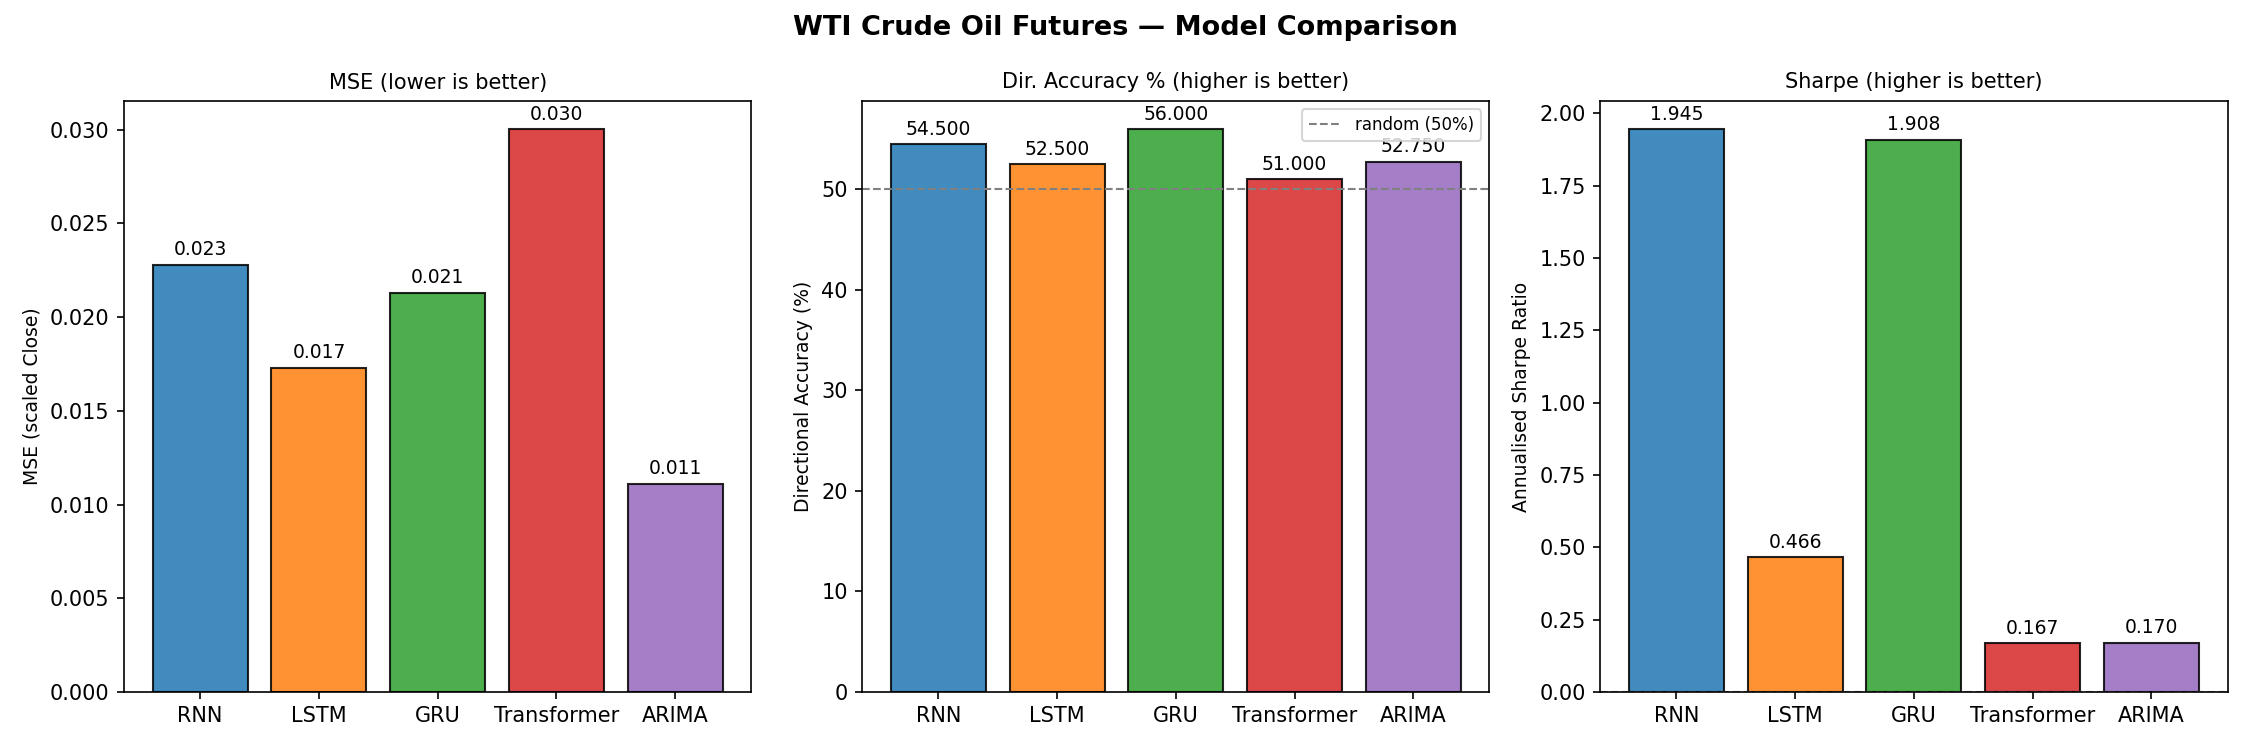
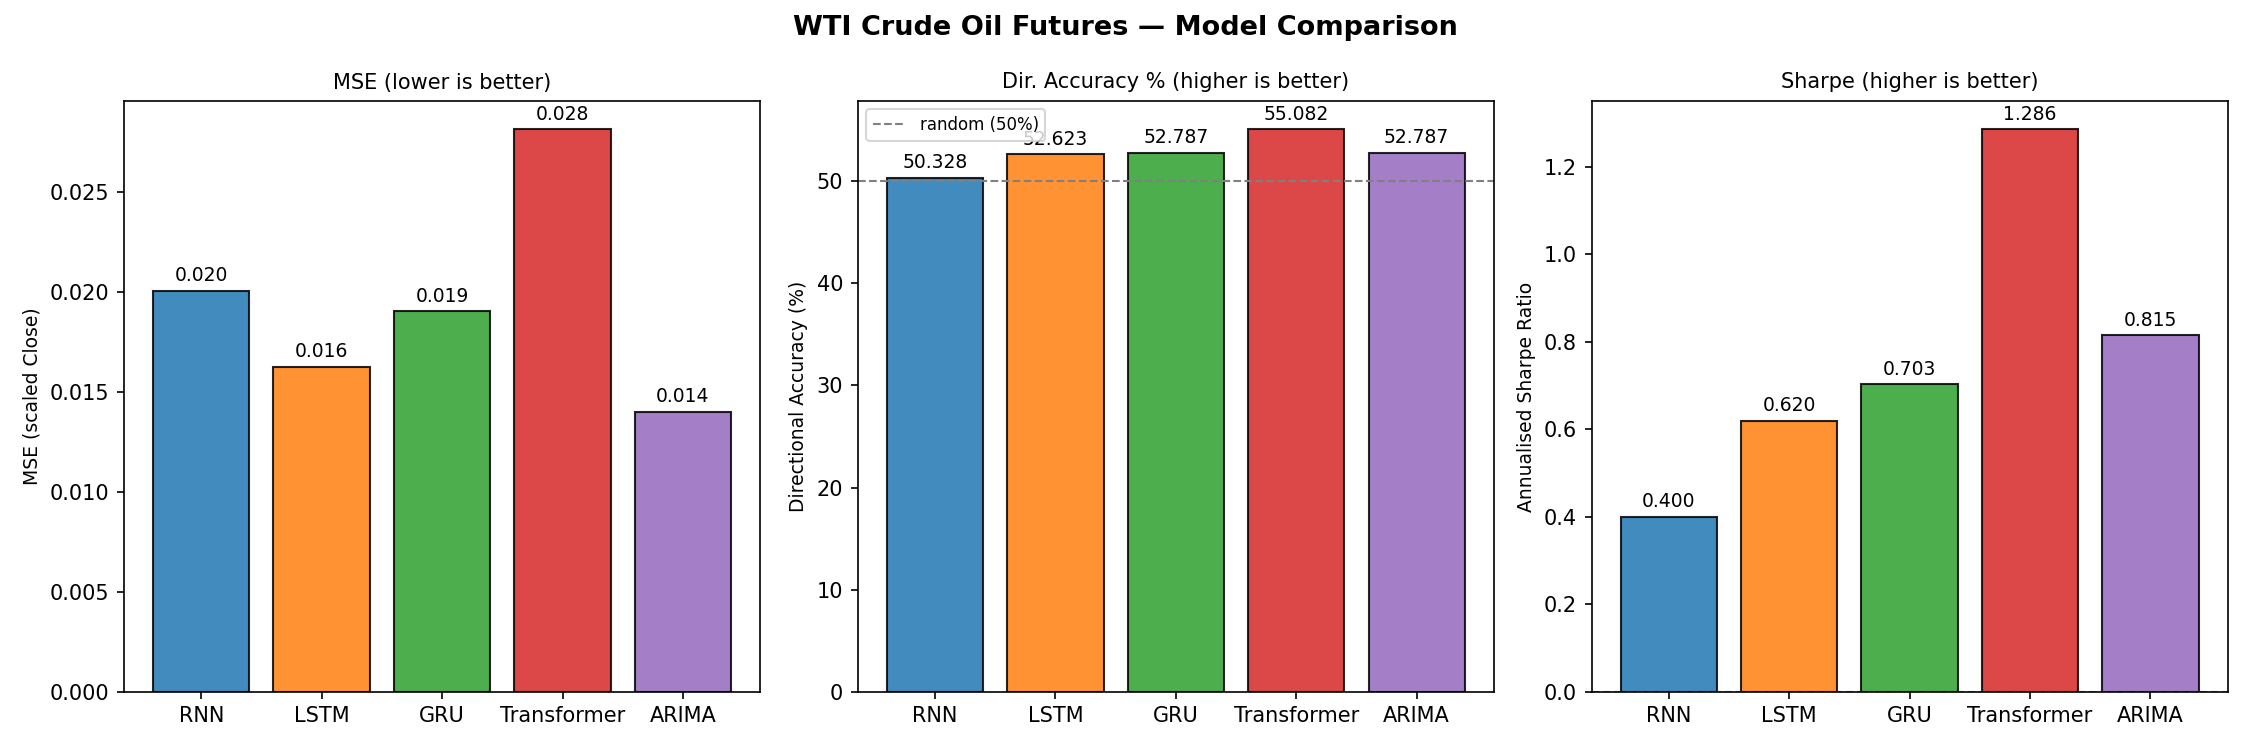
Changed Train/Test ratio, Added adaptive learning rate

diff --git a/model/input_fn.py b/model/input_fn.py
@@ -4,19 +4,15 @@ import torch
 from torch.utils.data import DataLoader, TensorDataset
 from sklearn.preprocessing import StandardScaler
 
-LOOK_BACK        = 10
-TARGET_COL       = 3    # index of Close in [Open, High, Low, Close, Volume]
-N_ANIMATION_DAYS = 30
-BATCH_SIZE       = 64
+LOOK_BACK  = 60
+TARGET_COL = 3    # index of Close in [Open, High, Low, Close, Volume]
+BATCH_SIZE = 64
 
 
 def load_and_split(csv_path: str):
     data = pd.read_csv(csv_path, index_col=0, parse_dates=True)
     data = data[["Open", "High", "Low", "Close", "Volume"]].dropna()
-
-    train_test_data = data.iloc[:-N_ANIMATION_DAYS]
-    anim_data_full  = data.iloc[-(N_ANIMATION_DAYS + LOOK_BACK):]
-    return train_test_data, anim_data_full, data
+    return data
 
 
 def fit_scaler(train_test_data: pd.DataFrame) -> StandardScaler:
@@ -34,15 +30,14 @@ def create_sequences(arr: np.ndarray, look_back: int, target_col: int):
 
 
 def get_data_loaders(csv_path: str = "wti_crude_daily.csv"):
-    train_test_data, anim_data_full, full_data = load_and_split(csv_path)
+    data = load_and_split(csv_path)
 
-    scaler       = fit_scaler(train_test_data)
-    scaled       = scaler.transform(train_test_data.values).astype(np.float32)
-    scaled_anim  = scaler.transform(anim_data_full.values).astype(np.float32)
+    scaler = fit_scaler(data)
+    scaled = scaler.transform(data.values).astype(np.float32)
 
     X, y = create_sequences(scaled, LOOK_BACK, TARGET_COL)
 
-    split         = int(len(X) * 0.8)
+    split           = int(len(X) * 0.8)
     X_train, X_test = X[:split], X[split:]
     y_train, y_test = y[:split], y[split:]
 
@@ -66,8 +61,6 @@ def get_data_loaders(csv_path: str = "wti_crude_daily.csv"):
         "X_train_raw":  X_train,
         "X_test_raw":   X_test,
         "scaled":       scaled,
-        "scaled_anim":  scaled_anim,
-        "anim_data":    anim_data_full,
         "scaler":       scaler,
         "split":        split,
     }

diff --git a/build_dataset.py b/build_dataset.py
@@ -4,11 +4,10 @@ import pandas as pd
 import numpy as np
 from sklearn.preprocessing import StandardScaler
 
-TICKER           = "CL=F"
-START            = "2018-01-01"
-LOOK_BACK        = 60
-N_ANIMATION_DAYS = 30
-TARGET_COL       = 3    # Close
+TICKER     = "CL=F"
+START      = "2018-01-01"
+LOOK_BACK  = 60
+TARGET_COL = 3    # Close
 
 DATA_DIR   = "data"
 TRAIN_DIR  = os.path.join(DATA_DIR, "train")
@@ -30,18 +29,14 @@ def fetch_raw() -> pd.DataFrame:
 
 
 def split_and_save(df: pd.DataFrame):
-    test_data  = df.iloc[-N_ANIMATION_DAYS:]
-    rest       = df.iloc[:-N_ANIMATION_DAYS]
-    split      = int(len(rest) * 0.8)
-    train_data = rest.iloc[:split]
-    dev_data   = rest.iloc[split:]
+    split      = int(len(df) * 0.8)
+    train_data = df.iloc[:split]
+    test_data  = df.iloc[split:]
 
     train_data.to_csv(os.path.join(TRAIN_DIR, "train.csv"))
-    dev_data.to_csv(os.path.join(DEV_DIR,   "dev.csv"))
-    test_data.to_csv(os.path.join(TEST_DIR,  "test.csv"))
+    test_data.to_csv(os.path.join(TEST_DIR,   "test.csv"))
 
     print(f"train : {len(train_data)} rows  → {TRAIN_DIR}/train.csv")
-    print(f"dev   : {len(dev_data)}  rows  → {DEV_DIR}/dev.csv")
     print(f"test  : {len(test_data)} rows  → {TEST_DIR}/test.csv")
 
 

diff --git a/model/training.py b/model/training.py
@@ -4,7 +4,8 @@ import torch.optim as optim
 from torch.utils.data import DataLoader
 
 EPOCHS     = 50
-LR         = 1e-2
+LR         = 1e-2   # default lr when using ReduceLROnPlateau scheduler
+LR_FIXED   = 1e-3   # default lr when scheduler is disabled
 ALPHA      = 10
 
 LOSS_CHOICES = ("mse", "mae")
@@ -34,9 +35,11 @@ class DirectionalMSELoss(nn.Module):
 
 
 def train_step(model: nn.Module, loader: DataLoader,
-               epochs: int = EPOCHS, lr: float = LR,
+               epochs: int = EPOCHS, lr: float = None,
                loss: str = "mse", verbose: bool = True,
                use_scheduler: bool = True) -> list:
+    if lr is None:
+        lr = LR if use_scheduler else LR_FIXED
     criterion = get_criterion(loss)
     log_key   = f"train_{loss.lower()}"
     optimizer = optim.Adam(model.parameters(), lr=lr)
@@ -70,8 +73,10 @@ def train_step(model: nn.Module, loader: DataLoader,
 
 def train_step_directional(model: nn.Module, loader: DataLoader,
                             alpha: float = ALPHA, epochs: int = EPOCHS,
-                            lr: float = LR, verbose: bool = True,
+                            lr: float = None, verbose: bool = True,
                             use_scheduler: bool = True) -> list:
+    if lr is None:
+        lr = LR if use_scheduler else LR_FIXED
     criterion = DirectionalMSELoss(alpha=alpha)
     optimizer = optim.Adam(model.parameters(), lr=lr)
     scheduler = (

diff --git a/run_demo.py b/run_demo.py
@@ -40,7 +40,8 @@ FULL_CSV   = "wti_crude_daily.csv"
 
 # ── helpers ───────────────────────────────────────────────────────────────────
 
-def load_or_train(data: dict, retrain: bool, loss: str = "mse") -> dict:
+def load_or_train(data: dict, retrain: bool, loss: str = "mse",
+                  use_scheduler: bool = True) -> dict:
     """Return dict of {name: nn.Module}, loading from disk or training fresh."""
     models = {}
     scaler       = data["scaler"]
@@ -57,7 +58,7 @@ def load_or_train(data: dict, retrain: bool, loss: str = "mse") -> dict:
             print(f"  Loaded  {name:12s} ← {path}")
         else:
             print(f"\n  Training {name} …")
-            train_step(model, train_loader, loss=loss, verbose=True)
+            train_step(model, train_loader, loss=loss, use_scheduler=use_scheduler, verbose=True)
             os.makedirs(MODELS_DIR, exist_ok=True)
             torch.save(model.state_dict(), path)
             print(f"  Saved   {name:12s} → {path}")
@@ -132,6 +133,8 @@ def main():
                         help="Use the 100-row sample dataset instead of the full CSV")
     parser.add_argument("--loss", default="mse", choices=LOSS_CHOICES,
                         help="Training loss function (default: mse)")
+    parser.add_argument("--no-scheduler", action="store_true",
+                        help="Disable ReduceLROnPlateau (use fixed learning rate)")
     args = parser.parse_args()
 
     csv_path = SAMPLE_CSV if args.sample else FULL_CSV
@@ -150,7 +153,8 @@ def main():
     data = get_data_loaders(csv_path)
 
     print("\n── Deep-learning models ─────────────────────────────────────────")
-    models  = load_or_train(data, retrain=args.retrain, loss=args.loss)
+    models  = load_or_train(data, retrain=args.retrain, loss=args.loss,
+                            use_scheduler=not args.no_scheduler)
 
     results = {}
     for name, model in models.items():

diff --git a/train.py b/train.py
@@ -22,6 +22,8 @@ def main():
     parser = argparse.ArgumentParser(description="Full training run")
     parser.add_argument("--loss", default="mse", choices=LOSS_CHOICES,
                         help="Training loss function (default: mse)")
+    parser.add_argument("--no-scheduler", action="store_true",
+                        help="Disable ReduceLROnPlateau (use fixed learning rate)")
     args = parser.parse_args()
 
     data = get_data_loaders(CSV_PATH)
@@ -42,7 +44,8 @@ def main():
         print(f"  Training {name}")
         print("=" * 45)
         model   = build_model(name)
-        history = train_step(model, train_loader, loss=args.loss)
+        history = train_step(model, train_loader, loss=args.loss,
+                             use_scheduler=not args.no_scheduler)
         metrics = full_eval(model, X_test_t, y_test_t, X_test_raw, scaler, TARGET_COL)
         metrics["model"] = model
         results[name]    = metrics

diff --git a/README.md b/README.md
@@ -67,12 +67,15 @@ Loads saved weights from `saved_models/` if they exist, otherwise trains from sc
 |---|---|
 | `--retrain` | Force fresh training even if weights exist |
 | `--loss mse\|mae` | Training loss function (default: `mse`) |
+| `--no-scheduler` | Disable `ReduceLROnPlateau` and use a fixed learning rate |
 
 ### 4 — Full training run
 
 ```bash
-python train.py               # MSE loss (default)
-python train.py --loss mae    # MAE loss
+python train.py                            # MSE loss, adaptive LR (defaults)
+python train.py --loss mae                 # MAE loss
+python train.py --no-scheduler             # fixed learning rate
+python train.py --loss mae --no-scheduler  # MAE + fixed LR
 ```
 
 Trains all four models for 50 epochs, saves weights to `saved_models/`, logs to `experiments/training_logs/`.
@@ -180,8 +183,7 @@ Decoder-only (GPT-style) with a causal upper-triangular mask applied at every la
 | Split | Proportion | Purpose |
 |---|---|---|
 | Train | 80% | Model training |
-| Dev | 20% | Hyperparameter tuning |
-| Animation / test | last 30 rows | Visual demo only |
+| Test  | 20% | Evaluation |
 
 ---
 